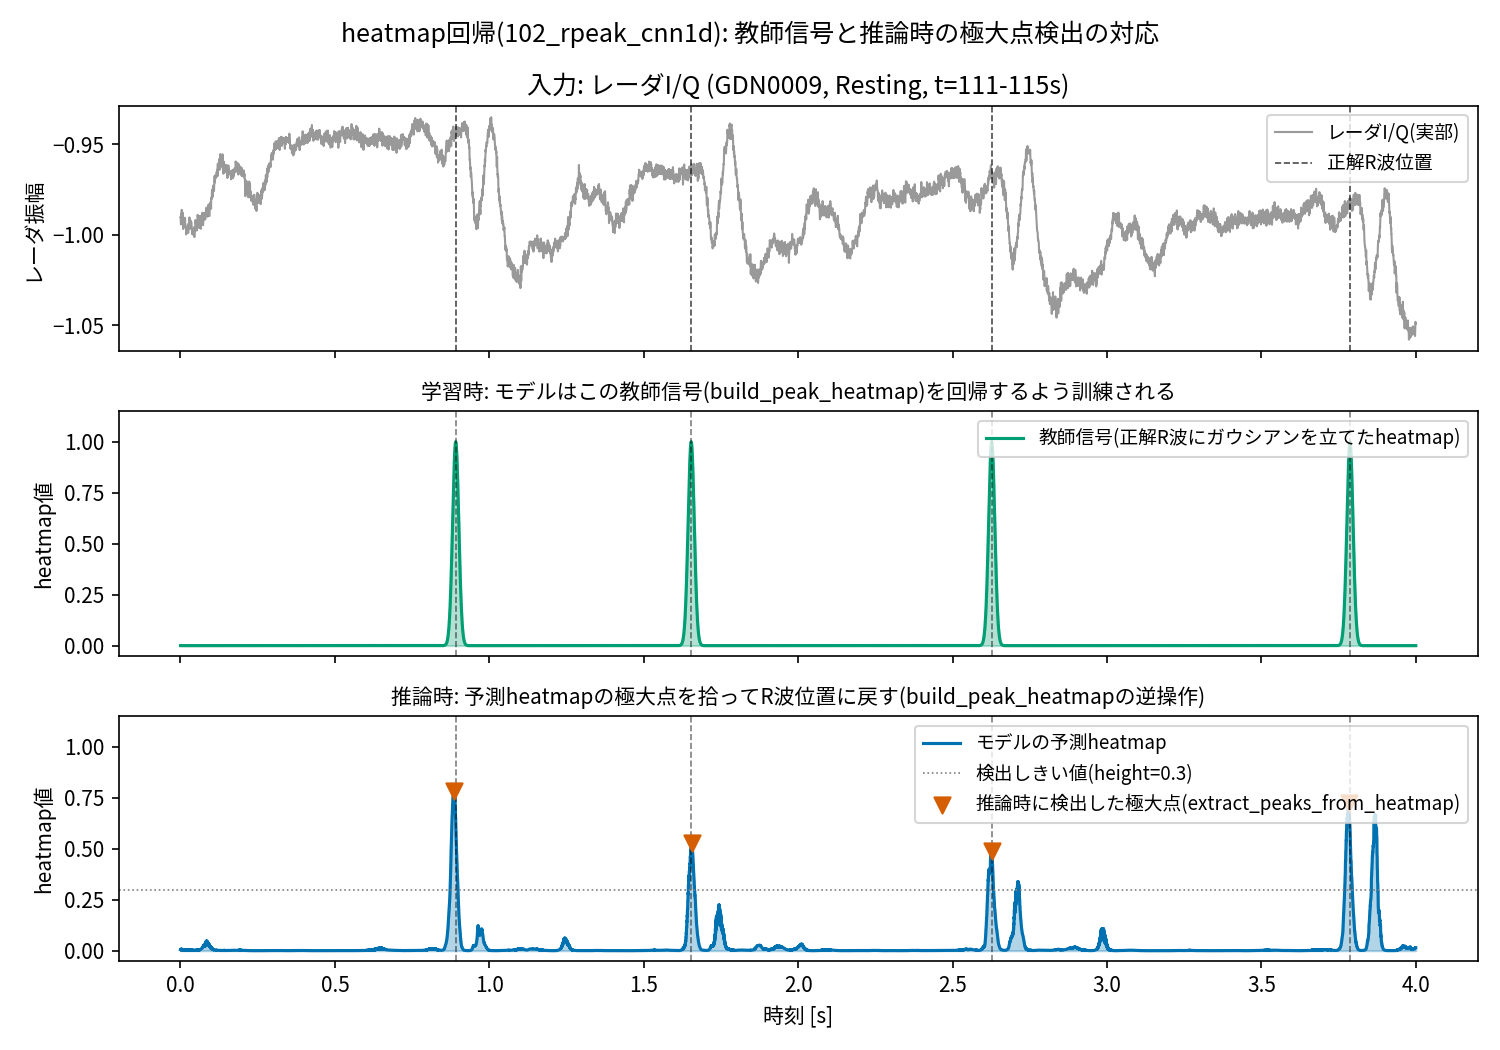
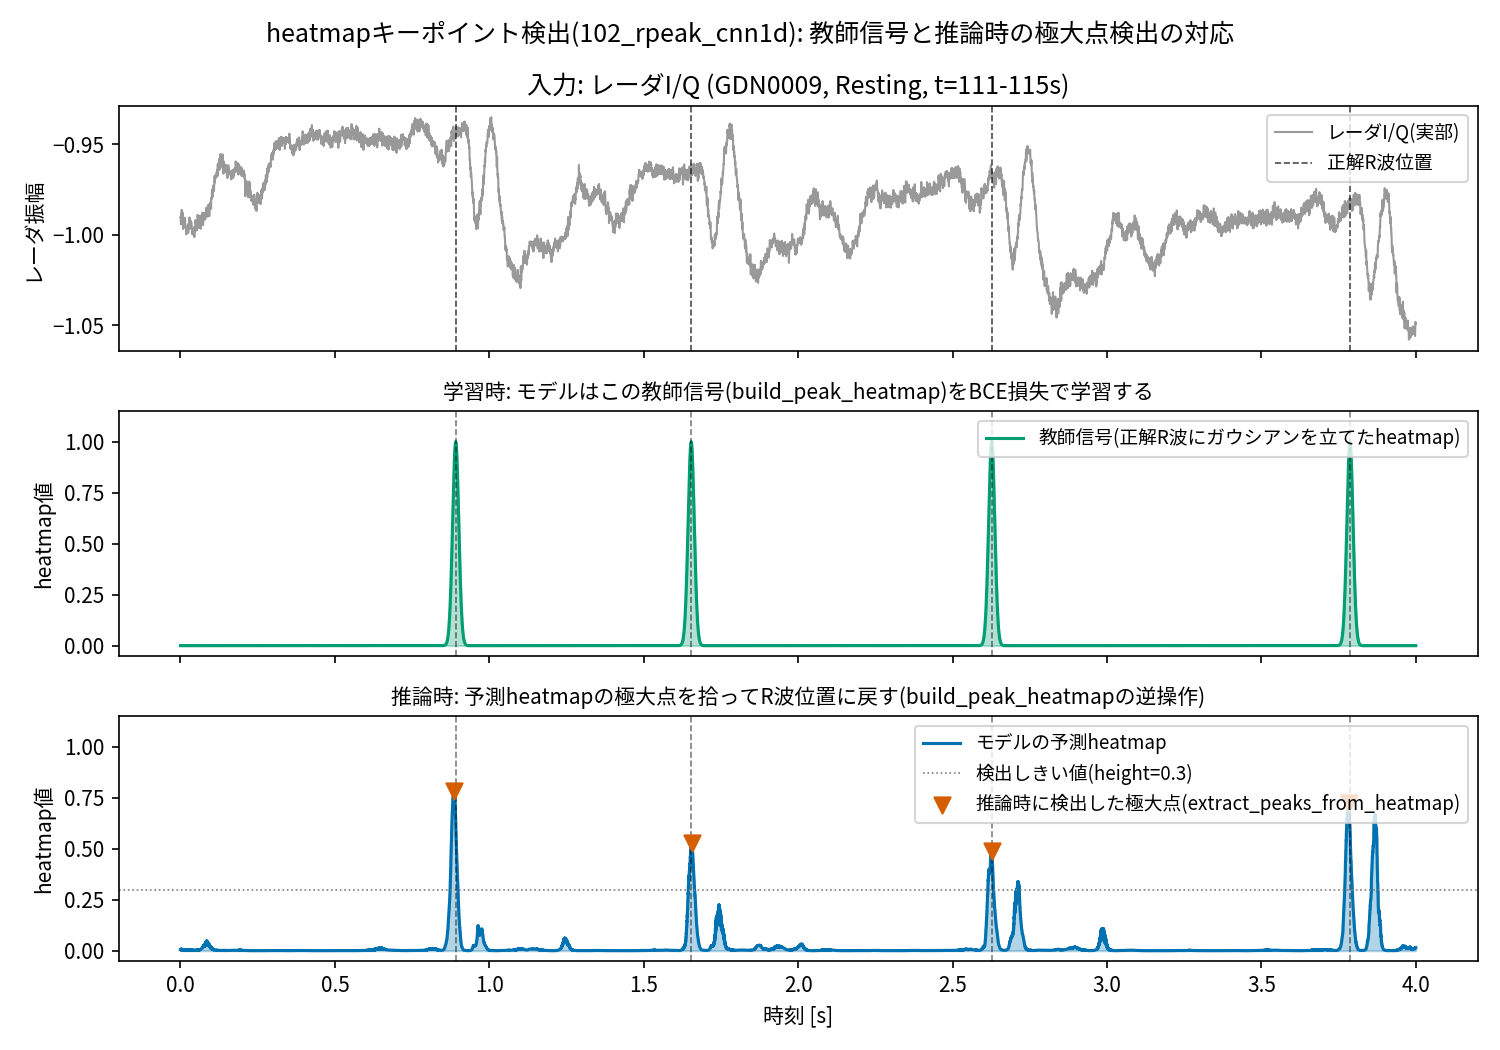
heatmapタスクの用語を「回帰」から正確な表現に修正
III-2節(137行目)で既に「回帰でも分類でもなくキーポイント検出と同じ定式化」と
正確に書かれていたが、今回追加した箇所(III-4節・図生成スクリプト)で「BCE回帰」
「heatmap回帰」という不正確な語を使ってしまっていたため、既存の記述と整合させた。
損失がBCEである以上、連続値を当てる回帰ではなく、ソフトラベルによる密な分類
(キーポイント検出、CenterNet等と同じ定式化)である。

Changed region(s): [[0.184, 0.0, 0.828, 0.061], [0.276, 0.3657, 0.7667, 0.3962]]

diff --git a/scripts/plot_heatmap_teacher_vs_inference.py b/scripts/plot_heatmap_teacher_vs_inference.py
@@ -1,11 +1,16 @@
-"""heatmap回帰(102_rpeak_cnn1d)の「教師信号」と「推論時の極大点検出」の対応を図示する。
+"""heatmapキーポイント検出(102_rpeak_cnn1d)の「教師信号」と「推論時の極大点検出」の対応を図示する。
 
-進捗報告書のheatmap回帰の説明(`build_peak_heatmap`でR波位置に立てたガウシアンを教師信号にし、
+進捗報告書の説明(`build_peak_heatmap`でR波位置に立てたガウシアンを教師信号にし、
 `extract_peaks_from_heatmap`で推論時にheatmapの極大点を拾ってR波位置に戻す、という2段構え)は
 文章だけでは伝わりにくいため、実データ・実モデルで3段構成の図にする。
 
+**用語について**: このタスクは回帰でも(単純な)分類でもなく、物体検出でいうキーポイント検出と
+同じ定式化(進捗報告書III-2節)。損失はBCEであり、連続値を当てる「回帰」ではなく、各時刻の
+「R波中心らしさ」をソフトラベル([0,1]のガウシアン)で教師する密な分類に近い。「heatmap回帰」
+という呼び方は不正確なので本スクリプトでは使わない。
+
 上段: レーダI/Q(実部)と正解R波位置(縦線)
-中段: 教師信号(build_peak_heatmapで作ったガウシアンheatmap) — 学習時にモデルはこれを回帰する
+中段: 教師信号(build_peak_heatmapで作ったガウシアンheatmap) — 学習時にモデルはこれをBCE損失で学習する
 下段: モデルの予測heatmap + extract_peaks_from_heatmapで検出した極大点(推論時の動作)
 
 使い方:
@@ -106,7 +111,7 @@ def main() -> None:
         ax.axvline(t[p], color=TRUE_PEAK_COLOR, lw=0.8, ls="--", alpha=0.5)
     ax.set_ylabel("heatmap値")
     ax.set_ylim(-0.05, 1.15)
-    ax.set_title("学習時: モデルはこの教師信号(build_peak_heatmap)を回帰するよう訓練される", fontsize=10)
+    ax.set_title("学習時: モデルはこの教師信号(build_peak_heatmap)をBCE損失で学習する", fontsize=10)
     ax.legend(loc="upper right", fontsize=9)
 
     ax = axes[2]
@@ -127,7 +132,7 @@ def main() -> None:
     ax.set_title("推論時: 予測heatmapの極大点を拾ってR波位置に戻す(build_peak_heatmapの逆操作)", fontsize=10)
     ax.legend(loc="upper right", fontsize=9)
 
-    fig.suptitle("heatmap回帰(102_rpeak_cnn1d): 教師信号と推論時の極大点検出の対応", fontsize=12)
+    fig.suptitle("heatmapキーポイント検出(102_rpeak_cnn1d): 教師信号と推論時の極大点検出の対応", fontsize=12)
     fig.tight_layout()
 
     out_path = REPO_ROOT / "reports/mmecg_comparison/heatmap_teacher_vs_inference.png"

diff --git a/reports/progress_report_2026-08-05_presentation.md b/reports/progress_report_2026-08-05_presentation.md
@@ -167,7 +167,9 @@ for i in range(n_layers):                      # rpeak_dilated_cnn1d.py:41-49
 
 **教師信号と推論時の動作の対応**（図: `reports/mmecg_comparison/heatmap_teacher_vs_inference.png`、
 生成スクリプト: `scripts/plot_heatmap_teacher_vs_inference.py`）: 学習時は正解R波位置に
-ガウシアン(`build_peak_heatmap`)を立てたheatmapを教師信号として密なBCE回帰を行い、推論時は
+ガウシアン(`build_peak_heatmap`)を立てたheatmapを教師信号として密なBCE損失で学習する
+（137行目の通り回帰でも分類でもなくキーポイント検出の定式化であり、BCEは連続値ではなく
+各時刻の「R波中心らしさ」をソフトラベルとして扱う分類系の損失である）。推論時は
 モデルが出力したheatmapの**極大点**(`extract_peaks_from_heatmap`、しきい値0.3以上かつ近傍で
 最大)を拾ってR波位置に戻す。下図は102_rpeak_cnn1d(ヒトSchellenbergerデータ、test被験者
 GDN0009)の実際の窓での例で、教師信号(中段)・予測(下段)とも4つのR波すべてが誤差6ms以内で
